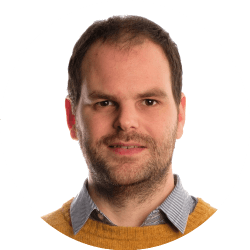
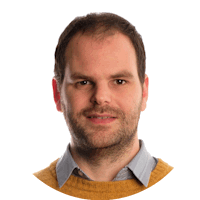
Add Mermaid & some CSS fixes

diff --git a/_includes/footer.html b/_includes/footer.html
@@ -1,58 +1,60 @@
 <footer class="site-footer h-card">
-        <data class="u-url" href="{{ "/" | relative_url }}"></data>
-      
-        <div class="wrapper">
-      
-          
-      
-          <div class="footer-col-wrapper">
+    <data class="u-url" href="{{ " /" | relative_url }}"></data>
+
+    <div class="wrapper">
+
+
+
+        <div class="footer-col-wrapper">
             <div class="footer-col footer-col-1">
-                <a href="{{ "/" | relative_url }}">
-                    <img src="{{ "/assets/nathan-circle-200.png" | relative_url }}" alt="Nathan Bijnens" />
+                <a href="{{ " /" | relative_url }}">
+                    <img width="120" height="120" src="{{ "/assets/nathan-circle-120.png" | relative_url }}"
+                        alt="Nathan Bijnens" />
                 </a>
             </div>
-      
+
             <div class="footer-col footer-col-2">
-              <ul class="social-media-list">                
-                <li>
-                    <a class="u-url" rel="me" href="https://github.com/{{ site.github_username }}">
-                        <i class="fab fa-github fa-fw"></i>
-                        {{ site.github_username }}
-                    </a>
-                </li>
-                <li>
-                    <a class="u-url" rel="me" href="https://twitter.com/{{ site.twitter_username }}">
-                        <i class="fab fa-twitter fa-fw"></i>
-                        @{{ site.twitter_username }}
-                    </a>                    
-                </li>
-                <li>
-                    <a class="u-url" rel="me" href="https://linkedin.com/in/nbijnens">
-                        <i class="fab fa-linkedin fa-fw"></i>
-                        Nathan Bijnens
-                    </a>                    
-                </li>
-                <li>
-                    <a class="u-url" href="{{ "/feed.xml" | relative_url }}">
-                        <i class="fas fa-rss fa-fw"></i>
-                        RSS
-                    </a>                    
-                </li>
-                <li>
-                    <a class="u-url" href="http://creativecommons.org/licenses/by-nc-sa/4.0/">
-                        <i class="fab fa-creative-commons fa-fw"></i>     
-                        BY-NC-SA 4.0                                      
-                    </a>
-                </li>
-              </ul>
+                <ul class="social-media-list">
+                    <li>
+                        <a class="u-url" rel="me" href="https://github.com/{{ site.github_username }}">
+                            <i class="fab fa-github fa-fw"></i>
+                            {{ site.github_username }}
+                        </a>
+                    </li>
+                    <li>
+                        <a class="u-url" rel="me" href="https://twitter.com/{{ site.twitter_username }}">
+                            <i class="fab fa-twitter fa-fw"></i>
+                            @{{ site.twitter_username }}
+                        </a>
+                    </li>
+                    <li>
+                        <a class="u-url" rel="me" href="https://linkedin.com/in/nbijnens">
+                            <i class="fab fa-linkedin fa-fw"></i>
+                            Nathan Bijnens
+                        </a>
+                    </li>
+                    <li>
+                        <a class="u-url" href="{{ " /feed.xml" | relative_url }}">
+                            <i class="fas fa-rss fa-fw"></i>
+                            RSS
+                        </a>
+                    </li>
+                    <li>
+                        <a class="u-url" href="http://creativecommons.org/licenses/by-nc-sa/4.0/">
+                            <i class="fab fa-creative-commons fa-fw"></i>
+                            BY-NC-SA 4.0
+                        </a>
+                    </li>
+                </ul>
             </div>
-      
+
             <div class="footer-col footer-col-3">
                 <h2 class="footer-heading">{{ site.title | escape }}</h2>
-              <p>{{ site.description | markdownify }}</p>
+                <p>{{ site.description | markdownify }}</p>
             </div>
-          </div>
-      
         </div>
-      
-      </footer>
+
+    </div>
+
+</footer>
+{% include mermaid.html %}

diff --git a/_sass/highlighter.scss b/_sass/highlighter.scss
@@ -2,16 +2,17 @@
 
 code.highlighter-rouge {
     font-size: 14px;
-    background-color: #f8f8f8;
+    background-color: $codeBackground;
 }
 
 .highlighter-rouge .highlight {
     width: auto;
-    background: #f8f8f8 !important;
+    background: $codeBackground !important;
 
     border-left-color: $accentColor;
     border-left-width: 5px;
     border-left-style: solid;
+    border-radius: 3px;
 
     pre,code {
         background-color: #fff;      
@@ -26,16 +27,19 @@ code.highlighter-rouge {
     pre {
         border: 1px solid $lightAccentColor;
 
+        padding: 8px 12px;
+
         table.rouge-table {
             margin-bottom: 0 !important;
 
             pre {
                 border: 0;
                 margin-bottom: 0 !important;
+                vertical-align: top;
             }
 
             pre.lineno {
-                border: 0px;
+                border: 0;
                 color: $accentColor;
             }
 
@@ -45,11 +49,11 @@ code.highlighter-rouge {
 
             th, td {
                 padding: 0;
+                vertical-align: top;
+                background-color: #fff;
             }
         }
     }
     
 }
-
-
 

diff --git a/_includes/mermaid.html b/_includes/mermaid.html
@@ -1,0 +1,27 @@
+<script>
+    var config = {
+        startOnLoad: true,
+        theme: 'base',
+        themeVariables: {
+            'primaryColor': '#ac9999',
+            'primaryTextColor': '#fff',
+            'lineColor': '#000',
+            fontSize: '14px',
+            fontFamily: '"Segoe UI", Roboto, Helvetica, Arial, sans-serif, "Apple Color Emoji", "Segoe UI Emoji", "Segoe UI Symbol"'
+        },
+        flowchart: {
+            useMaxWidth: true,
+            htmlLabels: true
+        }
+    };
+    mermaid.initialize(config);
+    window.mermaid.init(undefined, document.querySelectorAll('.language-mermaid'));
+
+    /*
+
+                secondaryColor: '#faf5f5',
+            secondaryTextColor: '#000000',
+            'tertiaryColor': '#fff',
+
+            */
+</script>

diff --git a/cv/_introduction.html b/cv/_introduction.html
@@ -45,7 +45,7 @@
 
         </div>
         <div class="span6 photo">
-            <img class="nathan" src="{{ "/assets/" | relative_url }}/nathan-circle-200.png" alt="Nathan Bijnens" itemprop="image"/>
+            <img class="nathan" width="250" height="250" src="{{ "/assets/" | relative_url }}/nathan-circle-250.png" alt="Nathan Bijnens" itemprop="image"/>
         </div>
 
 

diff --git a/_sass/mermaid.scss b/_sass/mermaid.scss
@@ -1,0 +1,12 @@
+code.language-mermaid {
+    display: block;
+    width: auto;
+    background: $codeBackground !important;
+    border-left-width: 5px;
+    border-left-style: solid;
+    border-left: 5px solid $accentColor;
+    border-right: 1px solid $lightAccentColor;
+    border-top: 1px solid $lightAccentColor;
+    border-bottom: 1px solid $lightAccentColor;
+    
+}

diff --git a/assets/main.scss b/assets/main.scss
@@ -5,8 +5,10 @@
 // Colors
 $lightAccentColor: #faf5f5;
 $accentColor: #ac9999;
+$codeBackground: #f8f8f8;
 
 @import "highlighter";
 @import "notes";
+@import "mermaid";
 @import "minima";
 @import "custom";

diff --git a/_includes/head.html b/_includes/head.html
@@ -22,4 +22,7 @@
             border-top-color: {{ header_color }};
         }
     </style>
+
+    <script src="//cdnjs.cloudflare.com/ajax/libs/mermaid/10.6.1/mermaid.min.js"></script>
 </head>
+

diff --git a/_sass/custom.scss b/_sass/custom.scss
@@ -144,3 +144,9 @@ $spacing-unit: 30px;
 .home ul.post-list li {
     clear: both;
 }
+
+pre {
+    background-color: inherit;
+    border: 0;
+    padding: 0;
+}

diff --git a/_posts/2022-11-27-flanders-capacity-electricity-tariffs-in-home-assistant.md b/_posts/2022-11-27-flanders-capacity-electricity-tariffs-in-home-assistant.md
@@ -34,36 +34,36 @@ utility_meter:
 #### Sidenote for Peak & Offpeak
 
 If you receive data in `peak` & `offpeak` measurements; best to sum them before:
-```yaml
 {% raw %}
+```yaml
 template:
 - sensor:
   - name: electricity_delivery
   unit_of_measurement: "kWh"
   state: "{{ ( states('sensor.electricity_peak_delivery') | float ) + ( states('sensor.electricity_offpeak_delivery') | float ) }}"
-{% endraw %}
 ```
+{% endraw %}
 
 ### Calculate the 15m power
 
 We now have the numbers in kWh (energy) but we need to convert to kW (power); we do this by multiplying by 4 (1h per quarter).
 
-```yaml
 {% raw %}
+```yaml
 template:
 - sensor:
   - name: electricity_delivery_power_15m
   unit_of_measurement: "kW"
   state: "{{ (states('sensor.electricity_delivery_15m') | float(0)) * 4 | float }}"
-{% endraw %}  
 ```
+{% endraw %}  
 
 ### Calculate the daily and monthly max
 
 To calculate the 15m max for the day & month, we are using the following template, with a time_pattern trigger.
 
-```yaml
 {% raw %}
+```yaml
 template:
   trigger:
     platform: time_pattern
@@ -101,8 +101,8 @@ template:
         0
       {% endif %}
     unit_of_measurement: 'kW'
-{% endraw %}    
 ```
+{% endraw %}
 
 ### Visualizing
 
@@ -209,22 +209,22 @@ cards:
 
 Let's create a binary_sensor to trigger if we are using too much power. The following code will trigger if we consume more than 2800W for more than 2m.
 
-```yaml
 {% raw %}
+```yaml
 template:
 - binary_sensor:
   - name: electricity_delivery_power_max_threshold_reached
     delay_on: 00:02:00
     delay_off: 00:01:00
     state: "{{ states('sensor.electricity_delivery') | float > 2800 }}"
-{% endraw %}
 ```
+{% endraw %}
 
 #### A notification to the Home Assistant mobile apps
 
 As automation:
-```yaml
 {% raw %}
+```yaml
 automations:
 - id: electricity_delivery_power_max_threshold_reached_send_notification
   alias: electricity_delivery_power_max_threshold_reached_send_notification
@@ -239,8 +239,8 @@ automations:
       title: "Electricity Peak; ({{  (states('sensor.dsmr_reading_electricity_currently_delivered') | float * 1000) }}W (max 2800w)"
       message: "Electricity Peak; ({{  (states('sensor.dsmr_reading_electricity_currently_delivered') | float * 1000) }}W (max 2800w)"
   mode: single
-{% endraw %}
 ```
+{% endraw %}
 
 ### Final notes
 

diff --git a/_posts/2023-12-14-nixos-on-windows.md b/_posts/2023-12-14-nixos-on-windows.md
@@ -17,9 +17,8 @@ image: /assets/post/2019/04/12/nix-on-windows/nixos.png
 
 <img src="/assets/post/2019/04/12/nix-on-windows/nixos.png" alt="Nix" height="100" width="100" style="float: left; padding: 30px;" /> [NixOS](https://nixos.org) is my go-to Linux distribution, providing a Functional approach to packaging & configuration management. 
 
-There are a couple of steps to enable NixOS on top of the [Windows Subsystem for Linux 2](https://learn.microsoft.com/en-us/windows/wsl/).
-
-<p style="clear: both;">&nbsp;</p>
+There are a couple of steps to enable NixOS on top of the [Windows Subsystem for Linux 2](https://learn.microsoft.com/en-us/windows/wsl/). Running native NixOS is a better approach then to use Nix on Windows (using Ubuntu).
+<br style="clear: both;">
 
 > ##### NOTE
 >
@@ -49,9 +48,9 @@ We are going to use the [nix-community/NixOS-WSL](https://github.com/nix-communi
 
 3. Run NixOS 
   
-      ```powershell
-      wsl -d NixOS
-      ```
+    ```powershell
+    wsl -d NixOS
+    ```
 
 4. Optionally make NixOS the default
 
